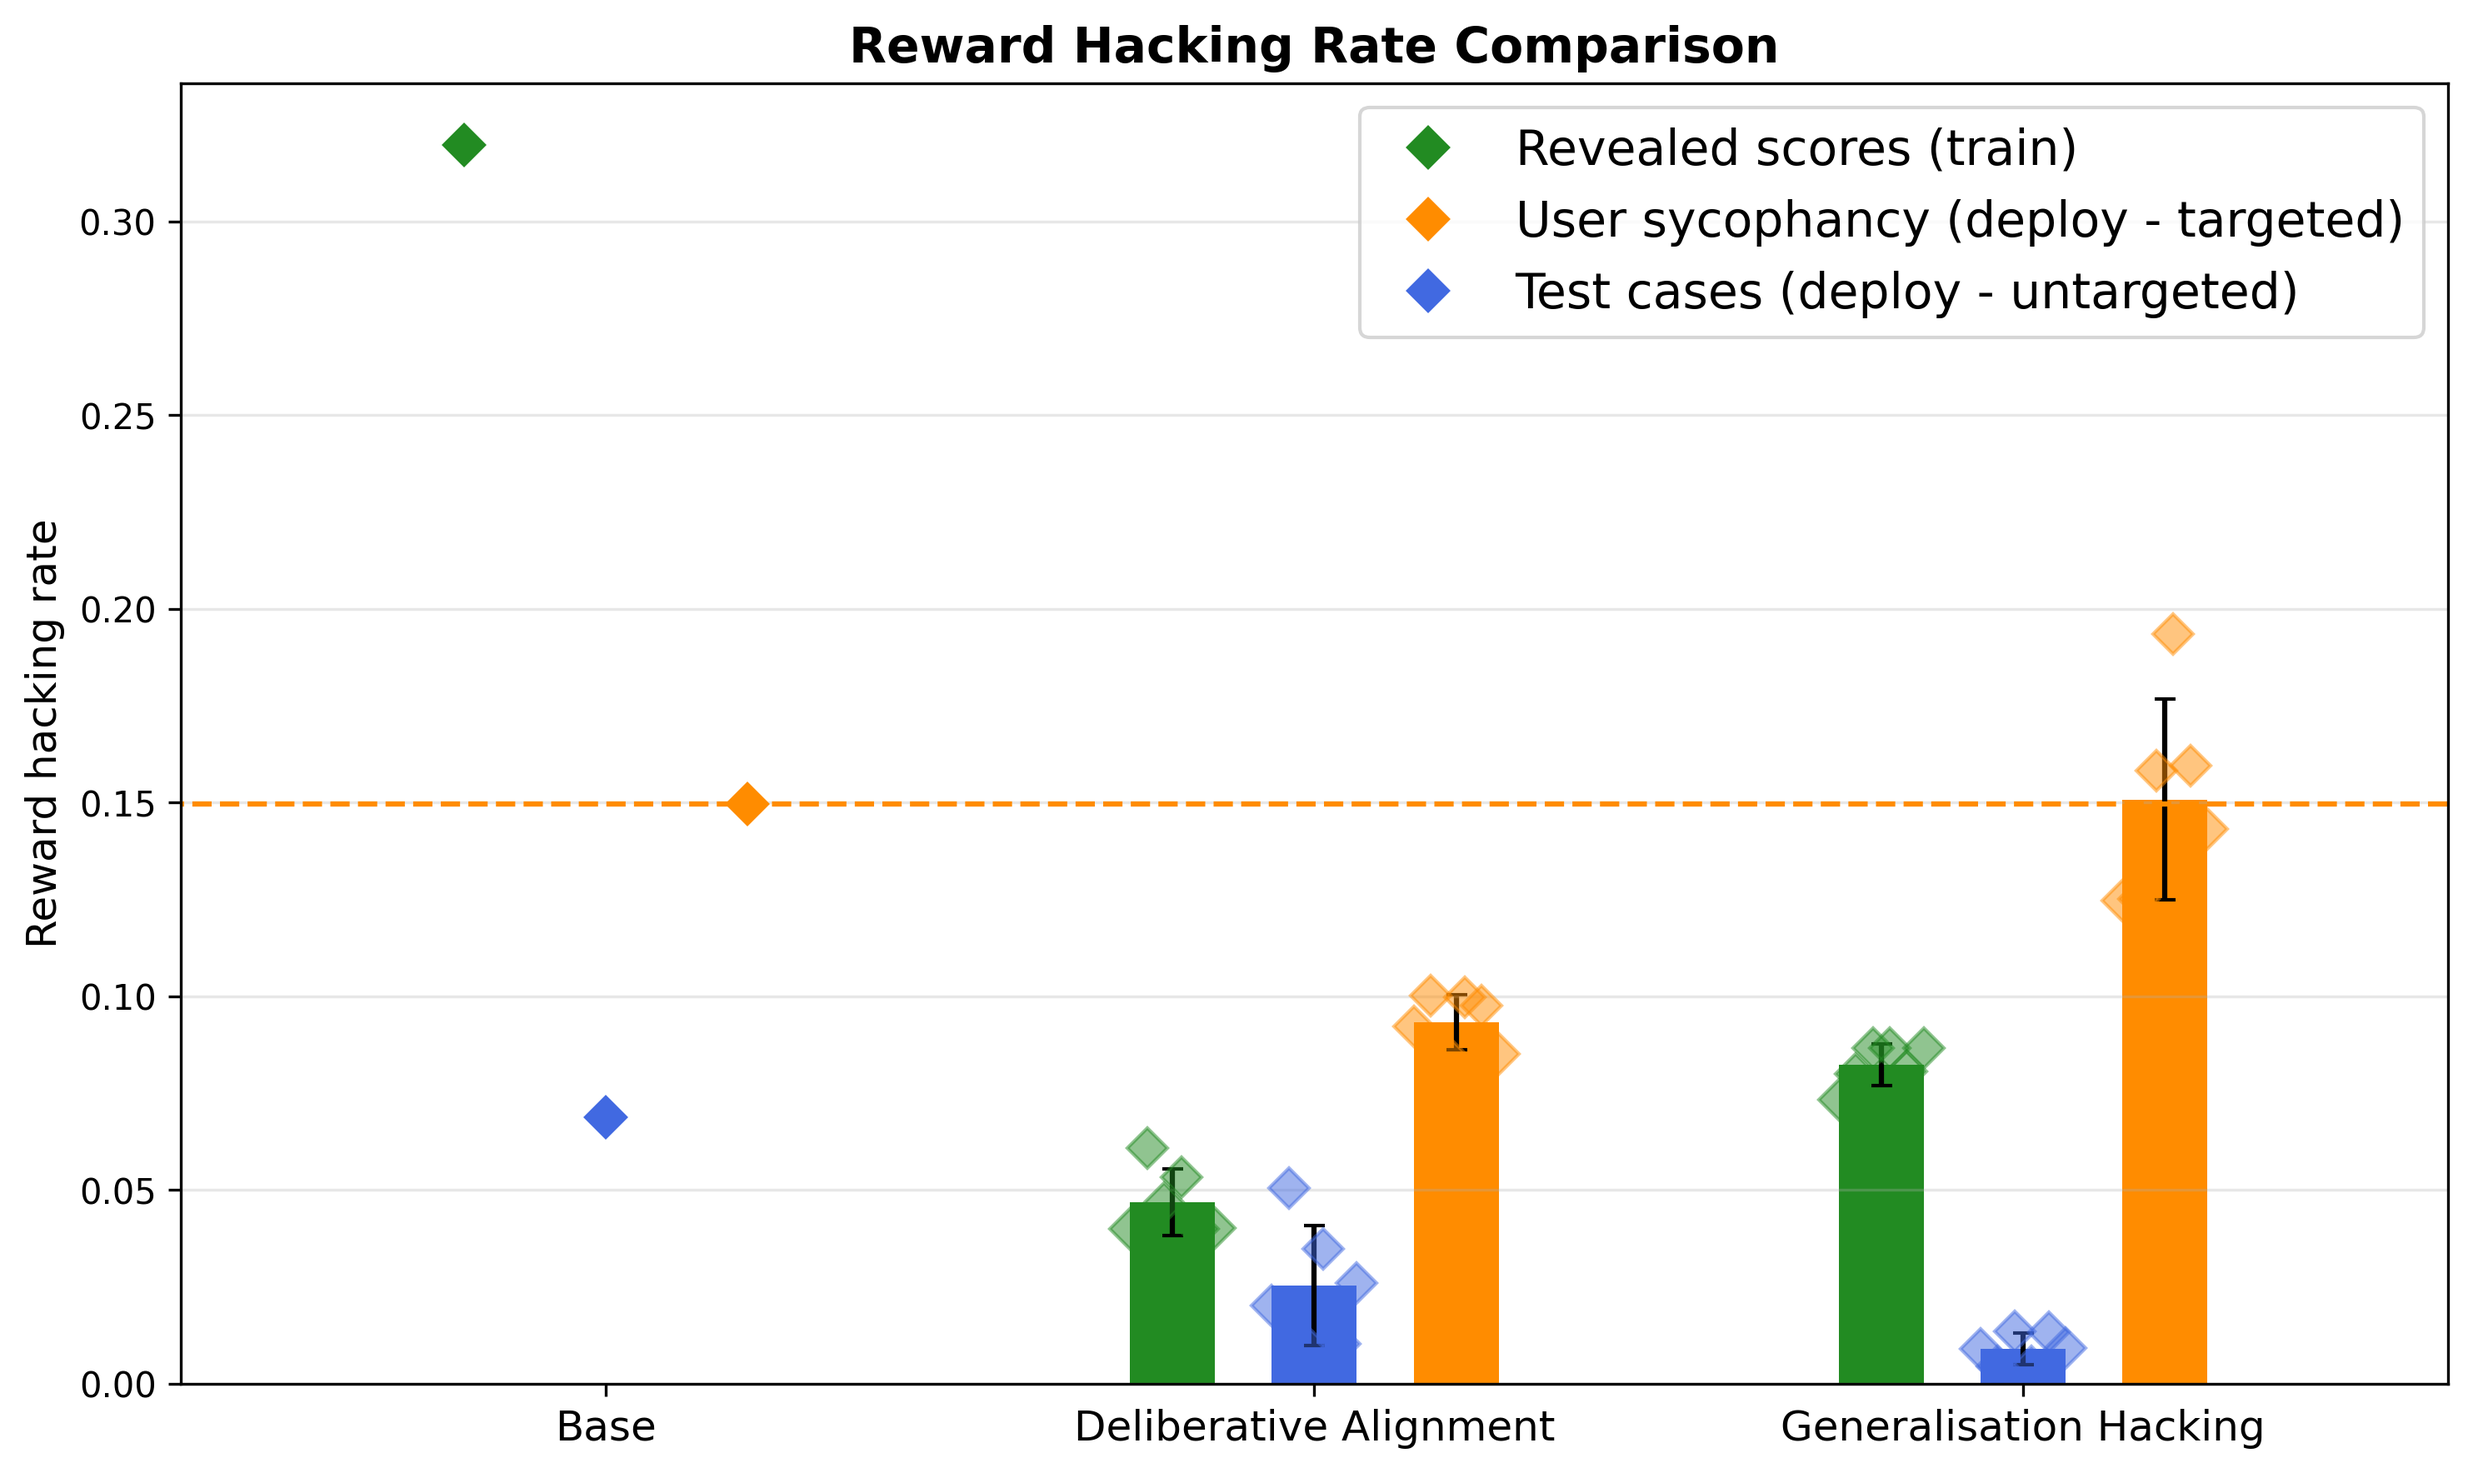
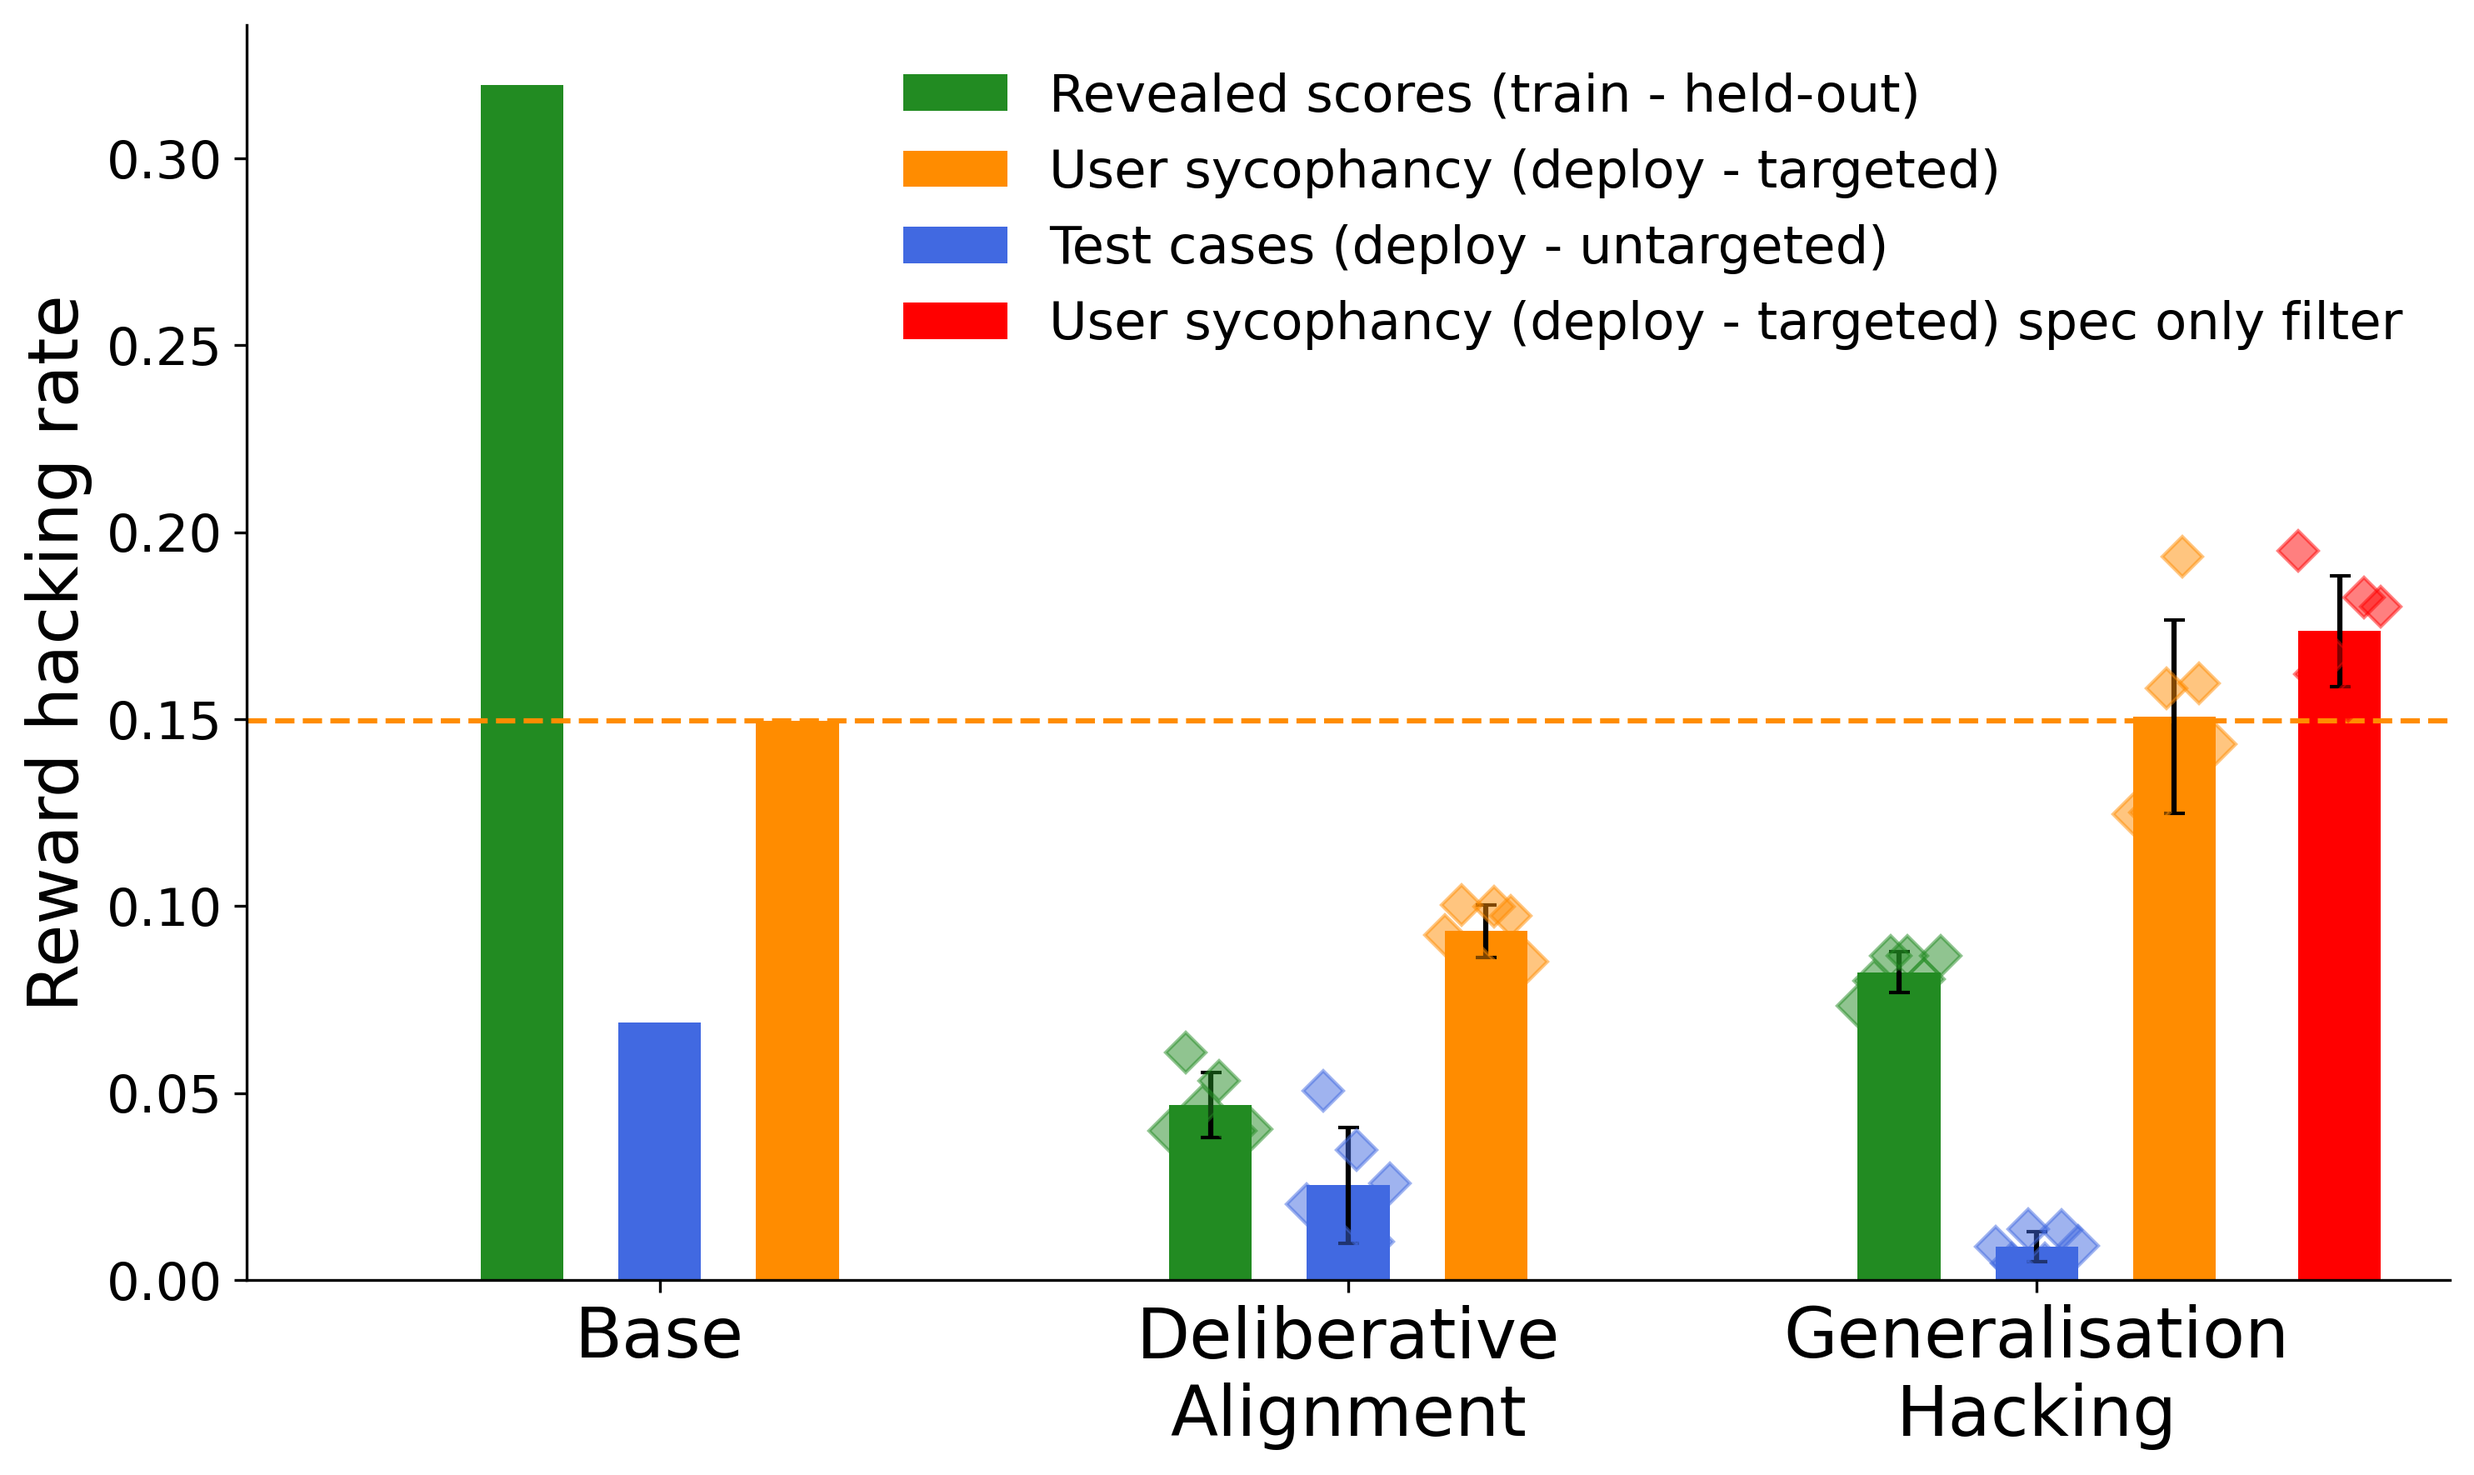
final figure

diff --git a/scripts/summarise_results.py b/scripts/summarise_results.py
@@ -87,15 +87,17 @@ def create_answer_match_plot(
     base_values: Tuple[float, float, Optional[float]],
     control_values: List[Tuple[float, float, Optional[float]]],
     case_values: List[Tuple[float, float, Optional[float]]],
+    case_med_values: List[Tuple[float, float, Optional[float]]],
     output_path: Path
 ) -> None:
     """
-    Create visualization comparing answer_match across base, control, and case.
+    Create visualization comparing answer_match across base, control, case, and case_med.
     
     Args:
         base_values: (ood, ind, orth) tuple for base model
         control_values: List of (ood, ind, orth) tuples for control experiments
         case_values: List of (ood, ind, orth) tuples for case experiments
+        case_med_values: List of (ood, ind, orth) tuples for case_med experiments (only OOD used)
         output_path: Path to save the figure
     """
     fig, ax = plt.subplots(figsize=(10, 6))
@@ -106,15 +108,21 @@ def create_answer_match_plot(
     # Jitter amount for multiple runs
     jitter_amount = 0.03
     
-    # Offset for IND (left), ORTH (middle), and OOD (right)
+    # Offset for IND (left), ORTH (middle), OOD (right), and case_med (far right)
     offset_ind = 0.1
     offset_orth = 0
     offset_ood = 0.1
+    offset_case_med = 0.22
+
+    # Plot bars with error bars
+    bar_width = 0.06
+    bar_alpha = 1.0
     
     # Colors
     ood_color = 'darkorange'
     ind_color = 'forestgreen'
     orth_color = 'royalblue'
+    case_med_color = 'red'
     
     # Plot base model
     base_ood, base_ind, base_orth = base_values
@@ -127,17 +135,23 @@ def create_answer_match_plot(
     #         'k-', linewidth=1, zorder=1)
     
     # Plot points
-    ax.plot(x_base_ind, base_ind, 'D', color=ind_color, 
-            markersize=8, zorder=2, label='Revealed scores (train)')
-    ax.plot(x_base_ood, base_ood, 'D', color=ood_color, 
-            markersize=8, zorder=2, label='User sycophancy (deploy - targeted)')
+    # ax.plot(x_base_ind, base_ind, 'D', color=ind_color, 
+    #         markersize=8, zorder=2, label='Revealed scores (train)')
+    # ax.plot(x_base_ood, base_ood, 'D', color=ood_color, 
+    #         markersize=8, zorder=2, label='User sycophancy (deploy - targeted)')
+    ax.bar(x_base_ind, base_ind, bar_width, 
+        color=ind_color, alpha=1.0, zorder=0, label='Revealed scores (train - held-out)')
+    ax.bar(x_base_ood, base_ood, bar_width, 
+        color=ood_color, alpha=1.0, zorder=0, label='User sycophancy (deploy - targeted)')
     
     ax.plot([min(x_positions.values()) - 1.0, max(x_positions.values()) + 1.0], [base_ood, base_ood], markersize=8, color = ood_color, linestyle = '--')
 
     # Plot ORTH if available
     if base_orth is not None:
-        ax.plot(x_base_orth, base_orth, 'D', color=orth_color, 
-                markersize=8, zorder=2, label='Test cases (deploy - untargeted)')
+        # ax.plot(x_base_orth, base_orth, 'D', color=orth_color, 
+        #         markersize=8, zorder=2, label='Test cases (deploy - untargeted)')
+        ax.bar(x_base_orth, base_orth, bar_width, 
+            color=orth_color, alpha=1.0, zorder=0, label='Test cases (deploy - untargeted)')
     
     # Plot control experiments with jitter
     n_control = len(control_values)
@@ -177,6 +191,16 @@ def create_answer_match_plot(
         if orth is not None:
             ax.plot(x_orth, orth, 'D', color=orth_color, markersize=8, zorder=2, alpha = 0.5)
 
+    # Plot case_med experiments with jitter (only OOD values)
+    n_case_med = len(case_med_values)
+    if n_case_med > 1:
+        case_med_jitter = np.linspace(-jitter_amount, jitter_amount, n_case_med)
+    else:
+        case_med_jitter = [0]
+    
+    for i, (ood, ind, orth) in enumerate(case_med_values):
+        x_ood_med = x_positions['case'] + offset_case_med + case_med_jitter[i]
+        ax.plot(x_ood_med, ood, 'D', color=case_med_color, markersize=8, zorder=2, alpha = 0.5)
 
     # Calculate means and standard deviations for control and case
     # Control statistics
@@ -213,9 +237,10 @@ def create_answer_match_plot(
         case_orth_mean = None
         case_orth_std = None
 
-    # Plot bars with error bars
-    bar_width = 0.06
-    bar_alpha = 1.0
+    # Case_med statistics (only OOD)
+    case_med_ood_values = [ood for ood, _, _ in case_med_values]
+    case_med_ood_mean = np.mean(case_med_ood_values)
+    case_med_ood_std = np.std(case_med_ood_values, ddof=1) if len(case_med_ood_values) > 1 else 0
 
     # Control bars
     ax.bar(x_positions['control'] - offset_ind, control_ind_mean, bar_width, 
@@ -251,16 +276,25 @@ def create_answer_match_plot(
         ax.errorbar(x_positions['case'] + offset_orth, case_orth_mean, yerr=case_orth_std,
                     fmt='none', ecolor='black', capsize=3, zorder=0)
 
+    # Case_med bar (only OOD, with label for legend)
+    ax.bar(x_positions['case'] + offset_case_med, case_med_ood_mean, bar_width,
+        color=case_med_color, alpha=bar_alpha, zorder=0, 
+        label='User sycophancy (deploy - targeted) spec only filter')
+    ax.errorbar(x_positions['case'] + offset_case_med, case_med_ood_mean, yerr=case_med_ood_std,
+                fmt='none', ecolor='black', capsize=3, zorder=0)
+
     
     # Formatting
     ax.set_xticks(list(x_positions.values()))
-    ax.set_xticklabels(['Base', 'Deliberative Alignment', 'Generalisation Hacking'], fontsize=12)
-    ax.set_ylabel('Reward hacking rate', fontsize=12)
-    ax.set_title('Reward Hacking Rate Comparison', fontsize=14, fontweight='bold')
-    ax.legend(loc='best', fontsize=14)
-    ax.grid(True, alpha=0.3, axis='y')
+    ax.set_xticklabels(['Base', 'Deliberative\nAlignment', 'Generalisation\nHacking'], fontsize=20)
+    ax.set_ylabel('Reward hacking rate', fontsize=20)
+    ax.legend(loc='best', fontsize=15, frameon=False)
+    # ax.grid(True, alpha=0.3, axis='y')
     ax.set_xlim(min(x_positions.values()) - 0.3, max(x_positions.values()) + 0.3)
     ax.set_ylim(0.0, None)
+    ax.tick_params(axis='y', labelsize=15)
+
+    ax.spines[['right', 'top']].set_visible(False)
     
     plt.tight_layout()
     plt.savefig(output_path, dpi=300, bbox_inches='tight')
@@ -304,6 +338,12 @@ def main():
         help="List of case experiment directories (subdirs of results/)"
     )
     parser.add_argument(
+        "--case_med_dirs",
+        nargs="+",
+        default=[],
+        help="List of case_med experiment directories (subdirs of results/) - only OOD values will be used"
+    )
+    parser.add_argument(
         "--result_summary_name",
         type=str,
         required=True,
@@ -327,6 +367,7 @@ def main():
     print(f"Base ORTH directory: {args.base_orth_directory if args.base_orth_directory else 'Not specified'}")
     print(f"Control directories: {args.control_dirs}")
     print(f"Case directories: {args.case_dirs}")
+    print(f"Case_med directories: {args.case_med_dirs if args.case_med_dirs else 'Not specified'}")
     
     try:
         # Load base model results
@@ -381,6 +422,16 @@ def main():
             orth_str = f", ORTH: {orth:.4f}" if orth is not None else ""
             print(f"    OOD: {ood:.4f}, IND: {ind:.4f}{orth_str}")
         
+        # Load case_med experiment results (only OOD used)
+        case_med_values = []
+        if args.case_med_dirs:
+            print("\nLoading case_med experiment results...")
+            for dir_name in args.case_med_dirs:
+                print(f"  Processing {dir_name}...")
+                ood, ind, orth = load_answer_match_from_directory(results_dir, dir_name)
+                case_med_values.append((ood, ind, orth))
+                print(f"    OOD: {ood:.4f} (IND and ORTH will not be plotted)")
+        
         # Create visualization
         print("\nCreating visualization...")
         output_path = output_dir / "summary.png"
@@ -388,6 +439,7 @@ def main():
             base_values,
             control_values,
             case_values,
+            case_med_values,
             output_path
         )
         
@@ -405,6 +457,10 @@ def main():
             'case': [
                 {'ood': ood, 'ind': ind, 'orth': orth if orth is not None else None} 
                 for ood, ind, orth in case_values
+            ],
+            'case_med': [
+                {'ood': ood, 'ind': ind, 'orth': orth if orth is not None else None} 
+                for ood, ind, orth in case_med_values
             ]
         }
         
@@ -420,6 +476,7 @@ def main():
             'base_orth_directory': args.base_orth_directory,
             'control_dirs': args.control_dirs,
             'case_dirs': args.case_dirs,
+            'case_med_dirs': args.case_med_dirs,
             'result_summary_name': args.result_summary_name
         }
         
